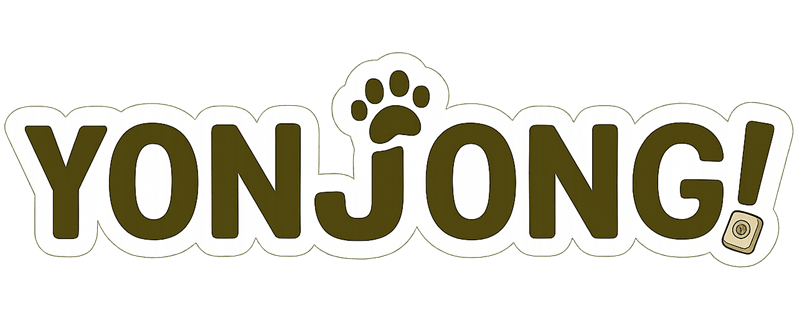
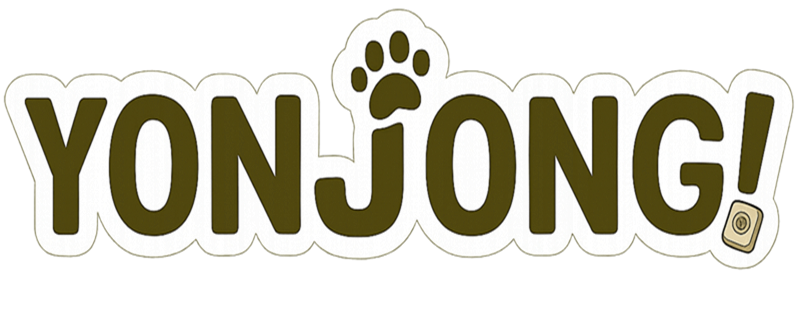
英語タイトルロゴ調整

diff --git a/src/views/TitleView.vue b/src/views/TitleView.vue
@@ -5,7 +5,7 @@
         <div class="title-background-image base-image"></div>
         <div class="title-background-image eye-blink-image"></div>
       </div>
-      <img src="/assets/images/back/タイトルロゴ.png" alt="よんじゃん！" class="title-logo" />
+      <img :src="titleLogoSrc" alt="よんじゃん！" class="title-logo" />
       <div class="top-controls">
         <div class="audio-toggles">
           <label class="toggle-switch">
@@ -82,6 +82,13 @@ const selectLanguage = (lang) => {
   selectedLanguage.value = lang;
   // ここに言語切り替えのロジックを追加予定
 };
+
+const titleLogoSrc = computed(() => {
+  if (selectedLanguage.value === 'ja') {
+    return '/assets/images/back/タイトルロゴ.png';
+  }
+  return '/assets/images/back/タイトルロゴ_en.png';
+});
 
 
 // --- Scaling Logic ---

diff --git a/src/App.vue b/src/App.vue
@@ -50,6 +50,7 @@ onMounted(async () => {
     '/assets/images/back/back_out.png',
     '/assets/images/back/mat.png',
     '/assets/images/back/タイトルロゴ.png',
+    '/assets/images/back/タイトルロゴ_en.png',
     '/assets/images/back/title_back_eye.png',
     '/assets/images/back/title_back.png',
     '/assets/images/button/buckToTitle.png',
